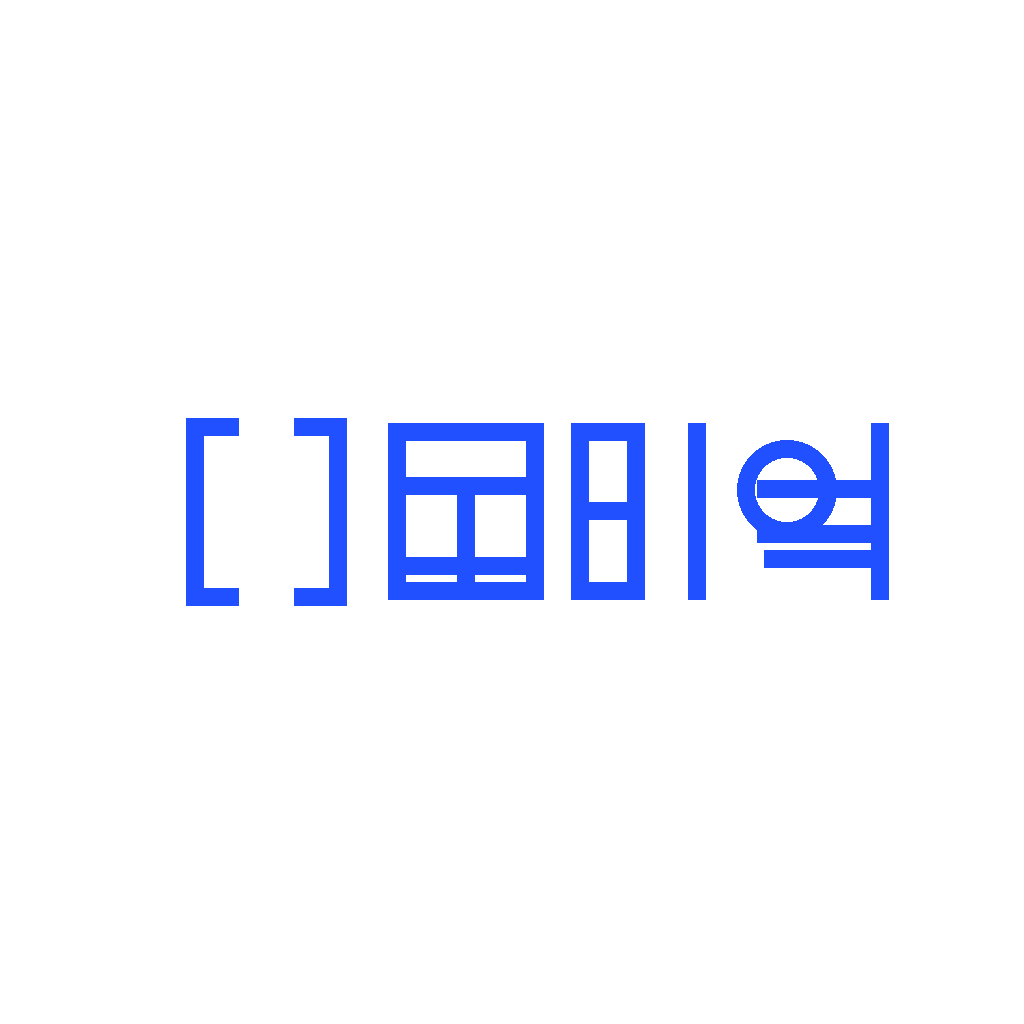
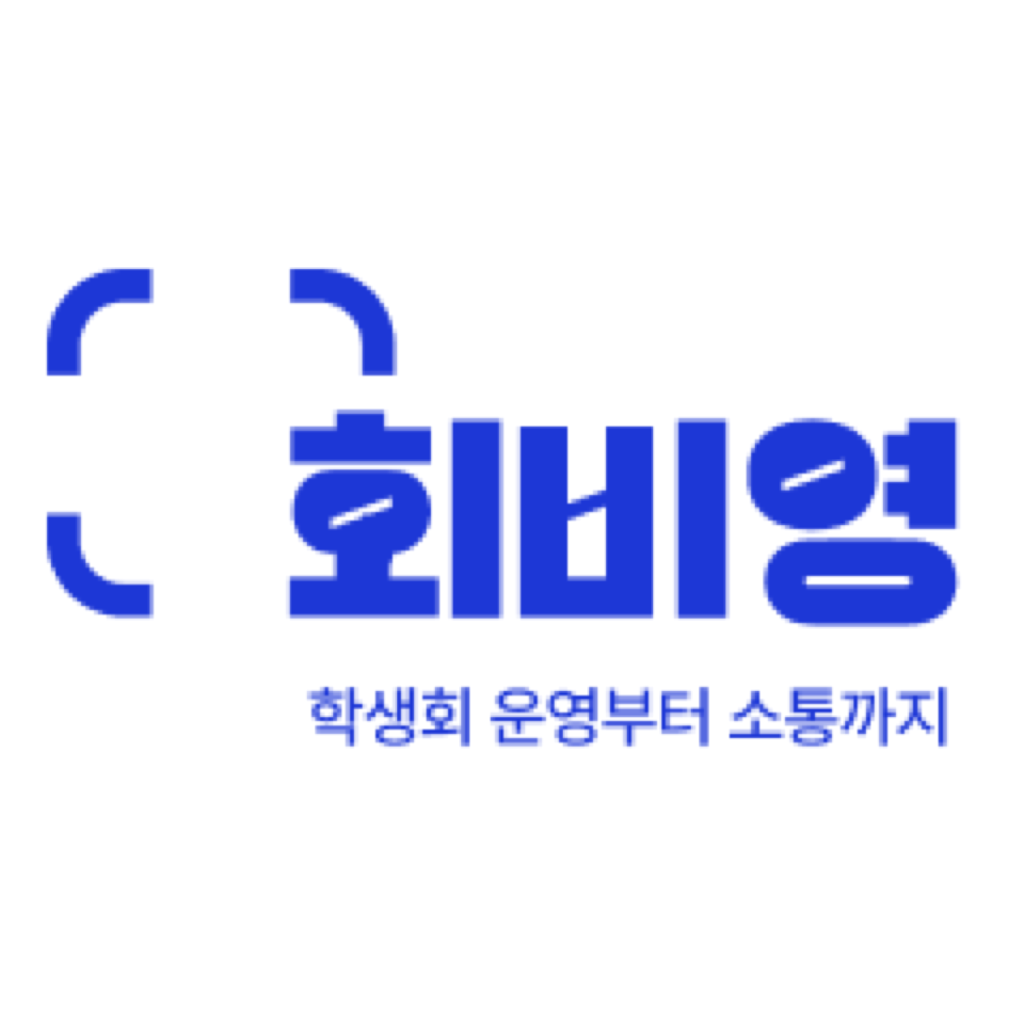
fix : 로고 사진 수정

diff --git a/src/components/HoebiyoungLogo.tsx b/src/components/HoebiyoungLogo.tsx
@@ -6,8 +6,8 @@ type HoebiyoungLogoProps = {
   align?: 'center' | 'left';
 };
 
-const LOGO_WITH_TAGLINE = require('@/assets/images/splash-icon-hoebiyoung.png') as ImageSourcePropType;
-const LOGO_ICON = require('@/assets/images/icon-hoebiyoung.png') as ImageSourcePropType;
+const LOGO_WITH_TAGLINE = require('@/assets/images/heavy-young-logo.png') as ImageSourcePropType;
+const LOGO_ICON = require('@/assets/images/heavy-young-app.png') as ImageSourcePropType;
 
 export default function HoebiyoungLogo({ taglineVisible = true, align = 'center' }: HoebiyoungLogoProps) {
   const { source, width } = useMemo(() => {
